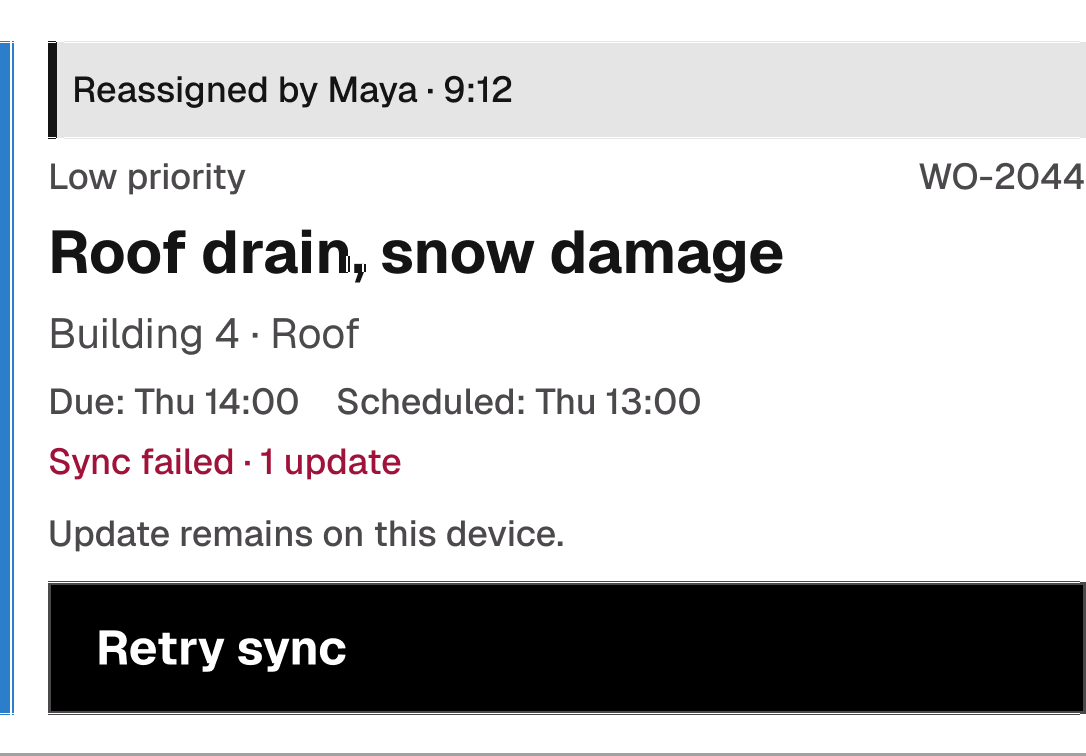
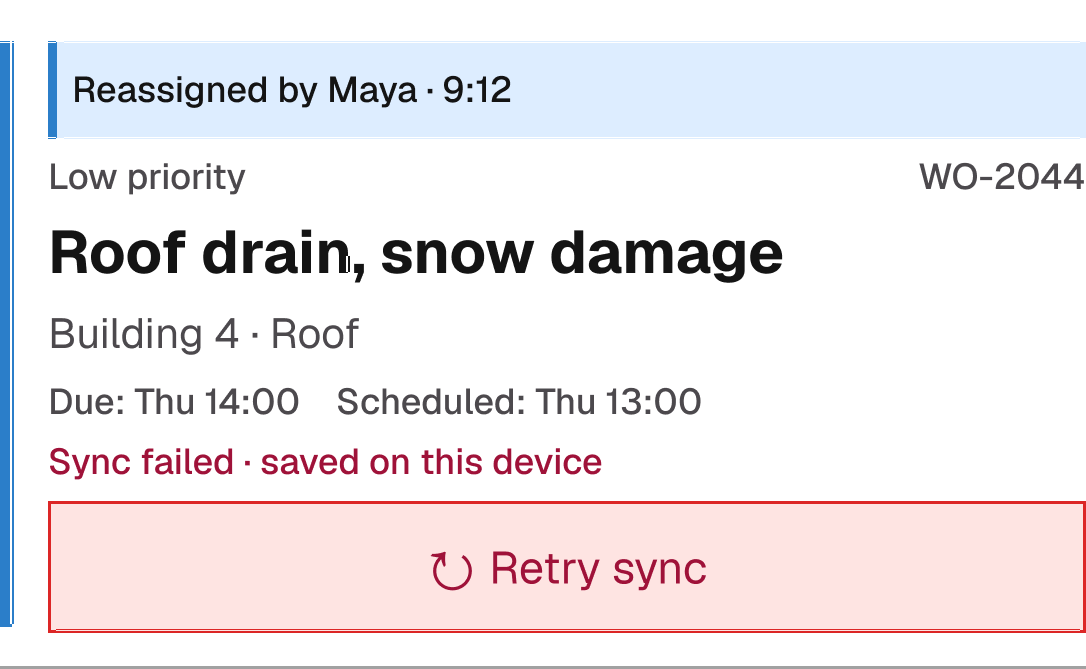
Swap LAT V3 queue + sync-failed screens, resize work-order close-ups, fix mobile overflow
- New V3 technician queue screenshot and updated sync-failed card image
- Shrink the 01-04 work-order close-up cards and align them with the phone mockups
- Fix nowrap phone-mockup row forcing horizontal overflow (and clipped text) on mobile

diff --git a/app/work/[slug]/page.tsx b/app/work/[slug]/page.tsx
@@ -779,7 +779,7 @@ const caseStudies = {
               <p style={{ fontSize: '14px', color: '#78716C' }}>One queue. One shift. No hidden sync failures.</p>
               <p style={{ fontSize: '15px', color: '#44403C', marginTop: '12px', maxWidth: '640px' }}>For field technicians, a completed action isn't complete if its update never reaches the system. We made sync state visible directly on the work order.</p>
 
-              <div style={{ display: 'flex', alignItems: 'flex-start', justifyContent: 'flex-start', gap: '24px', marginTop: '56px', flexWrap: 'nowrap' }}>
+              <div style={{ display: 'flex', alignItems: 'flex-start', justifyContent: 'flex-start', gap: '24px', marginTop: '56px', flexWrap: 'wrap' }}>
                 <div style={{ flex: '0 1 230px', minWidth: '170px' }}>
                   <img loading="lazy" decoding="async" width={1206} height={2622} src="/images/lat/LAT%20Technician%20Work%20Orders%20V1.png" alt="Technician work order queue, version 1 — a long list with filter tabs and priority tags" style={{ width: '100%', height: 'auto', borderRadius: '0px', display: 'block' }} />
                   <div style={{ fontSize: '12px', fontWeight: 700, letterSpacing: '0.04em', textTransform: 'uppercase', color: '#A8A29E', marginTop: '16px' }}>Starting point</div>
@@ -804,7 +804,7 @@ const caseStudies = {
                 </div>
 
                 <div style={{ flex: '0 1 230px', minWidth: '170px' }}>
-                  <img loading="lazy" decoding="async" width={1206} height={3159} src="/images/lat/LAT%20Technician%20Work%20Orders%20V3.png" alt="Technician work order queue, version 3 — a summary banner showing unsent changes, including the failed Roof drain job with its Retry button" style={{ width: '100%', height: 'auto', borderRadius: '0px', display: 'block' }} />
+                  <img loading="lazy" decoding="async" width={1206} height={3633} src="/images/lat/LAT%20%C2%B7%20Technician%20work%20orders%20V3.png" alt="Technician work order queue, version 3 — a summary banner showing unsent changes, including the failed Roof drain job with its Retry button" style={{ width: '100%', height: 'auto', borderRadius: '0px', display: 'block' }} />
                   <div style={{ fontSize: '12px', fontWeight: 700, letterSpacing: '0.04em', textTransform: 'uppercase', color: '#FF7C5F', marginTop: '16px' }}>One shift, one status</div>
                   <div style={{ fontSize: '13px', color: '#57534E', marginTop: '4px' }}>Banner isolates failures</div>
                   <div style={{ fontSize: '13px', color: '#78716C', marginTop: '6px' }}>One status for the shift, so a stuck update can't hide.</div>
@@ -814,34 +814,34 @@ const caseStudies = {
               <div style={{ marginTop: '64px' }}>
                 <div style={{ fontSize: '11px', fontWeight: 700, letterSpacing: '0.06em', textTransform: 'uppercase', color: '#A8A29E', marginBottom: '20px' }}>The card became the source of truth for the shift</div>
 
-                <div style={{ display: 'flex', alignItems: 'flex-start', justifyContent: 'flex-start', gap: '24px', flexWrap: 'wrap' }}>
-                  <div style={{ flex: '1 1 440px', minWidth: '320px' }}>
-                    <div style={{ backgroundColor: '#FFFFFF', border: '1px solid #E7E5E4', boxShadow: '0 2px 10px rgba(0,0,0,0.06)', padding: '20px' }}>
+                <div style={{ display: 'flex', alignItems: 'flex-start', justifyContent: 'flex-start', gap: '40px', rowGap: '48px', flexWrap: 'wrap' }}>
+                  <div style={{ flex: '1 1 240px', maxWidth: '260px', minWidth: '200px' }}>
+                    <div style={{ backgroundColor: '#FFFFFF', border: '1px solid #E7E5E4', boxShadow: '0 2px 10px rgba(0,0,0,0.06)', padding: '16px' }}>
                       <img loading="lazy" decoding="async" width={1086} height={306} src="/images/lat/Work%20order-2.png" alt="Work order card, base state — priority badge, title, and location" style={{ width: '100%', height: 'auto', display: 'block' }} />
                     </div>
                     <div style={{ fontSize: '11px', fontWeight: 700, letterSpacing: '0.04em', textTransform: 'uppercase', color: '#A8A29E', marginTop: '14px' }}>01 — Identify the work</div>
                     <div style={{ fontSize: '13px', color: '#57534E', marginTop: '4px' }}>Priority + job + location. Enough to recognize the task at a glance.</div>
                   </div>
 
-                  <div style={{ flex: '1 1 440px', minWidth: '320px' }}>
-                    <div style={{ backgroundColor: '#FFFFFF', border: '1px solid #E7E5E4', boxShadow: '0 2px 10px rgba(0,0,0,0.06)', padding: '20px' }}>
+                  <div style={{ flex: '1 1 240px', maxWidth: '260px', minWidth: '200px' }}>
+                    <div style={{ backgroundColor: '#FFFFFF', border: '1px solid #E7E5E4', boxShadow: '0 2px 10px rgba(0,0,0,0.06)', padding: '16px' }}>
                       <img loading="lazy" decoding="async" width={1086} height={429} src="/images/lat/Work%20order-1.png" alt="Work order card with due and scheduled times, and sync state added" style={{ width: '100%', height: 'auto', display: 'block' }} />
                     </div>
                     <div style={{ fontSize: '11px', fontWeight: 700, letterSpacing: '0.04em', textTransform: 'uppercase', color: '#FF7C5F', marginTop: '14px' }}>02 — Plan the work</div>
                     <div style={{ fontSize: '13px', color: '#57534E', marginTop: '4px' }}>Due + scheduled time. Technicians can plan without opening the job.</div>
                   </div>
 
-                  <div style={{ flex: '1 1 440px', minWidth: '320px' }}>
-                    <div style={{ backgroundColor: '#FFFFFF', border: '1px solid #E7E5E4', boxShadow: '0 2px 10px rgba(0,0,0,0.06)', padding: '20px' }}>
+                  <div style={{ flex: '1 1 240px', maxWidth: '260px', minWidth: '200px' }}>
+                    <div style={{ backgroundColor: '#FFFFFF', border: '1px solid #E7E5E4', boxShadow: '0 2px 10px rgba(0,0,0,0.06)', padding: '16px' }}>
                       <img loading="lazy" decoding="async" width={1086} height={504} src="/images/lat/Work%20order.png" alt="Work order card with an unread update badge added" style={{ width: '100%', height: 'auto', display: 'block' }} />
                     </div>
                     <div style={{ fontSize: '11px', fontWeight: 700, letterSpacing: '0.04em', textTransform: 'uppercase', color: '#FF7C5F', marginTop: '14px' }}>03 — Know what changed</div>
                     <div style={{ fontSize: '13px', color: '#57534E', marginTop: '4px' }}>Unread update. Changes are visible before they become surprises.</div>
                   </div>
 
-                  <div style={{ flex: '1 1 440px', minWidth: '320px' }}>
-                    <div style={{ backgroundColor: '#FFFFFF', border: '1px solid #E7E5E4', boxShadow: '0 2px 10px rgba(0,0,0,0.06)', padding: '20px' }}>
-                      <img loading="lazy" decoding="async" width={1086} height={756} src="/images/lat/Sync%20failed.png" alt="Work order card showing a failed sync and the Retry sync button, for the Roof drain job reassigned by Maya" style={{ width: '100%', height: 'auto', display: 'block' }} />
+                  <div style={{ flex: '1 1 240px', maxWidth: '260px', minWidth: '200px' }}>
+                    <div style={{ backgroundColor: '#FFFFFF', border: '1px solid #E7E5E4', boxShadow: '0 2px 10px rgba(0,0,0,0.06)', padding: '16px' }}>
+                      <img loading="lazy" decoding="async" width={1086} height={669} src="/images/lat/Sync%20failed.png" alt="Work order card showing a failed sync and the Retry sync button, for the Roof drain job reassigned by Maya" style={{ width: '100%', height: 'auto', display: 'block' }} />
                     </div>
                     <div style={{ fontSize: '11px', fontWeight: 700, letterSpacing: '0.04em', textTransform: 'uppercase', color: '#FF7C5F', marginTop: '14px' }}>04 — Know what actually happened</div>
                     <div style={{ fontSize: '13px', color: '#57534E', marginTop: '4px' }}>Sync state + retry. The technician always knows whether the update reached the system.</div>
